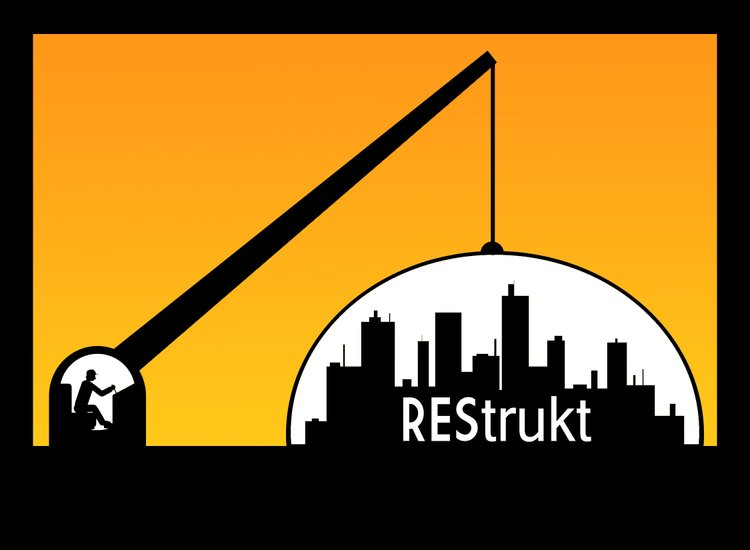
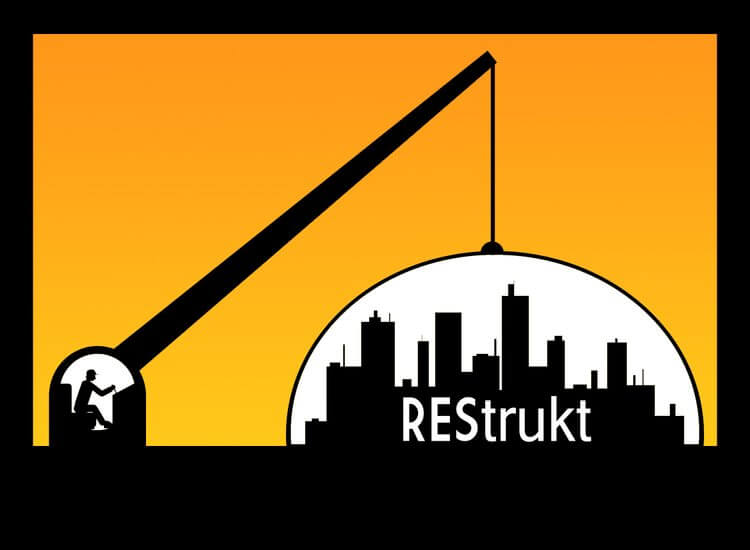
Updates

diff --git a/tabatha/index.html b/tabatha/index.html
@@ -681,7 +681,7 @@
   <body>
     <header>
       <div class="header-bg-logo" aria-hidden="true">
-        <img src="/tabatha/logo.png" alt="" />
+        <img src="/tabatha/reverse-logo.png" alt="" />
       </div>
       <div class="container">
         <div class="logo-container">
